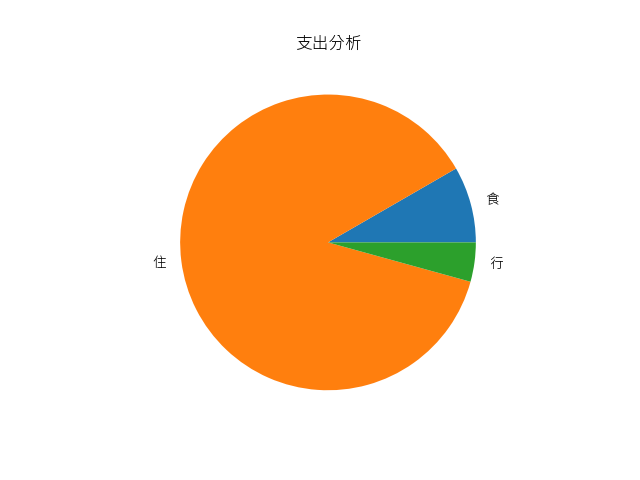
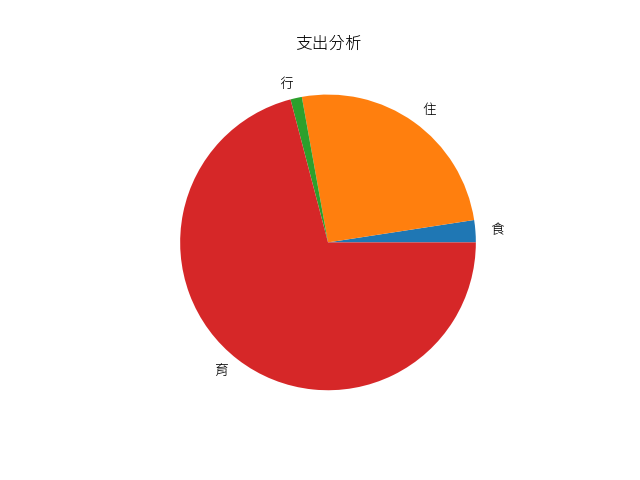
add advice_text

diff --git a/function.py b/function.py
@@ -99,9 +99,8 @@ class search_records_embed():
     def get_embed(self):
         user_id=self.parent_view.user_id
         rows=db.search_records(user_id)
-        # 表頭
+        #查詢出的資料
         embed = Embed(title="📒 記帳紀錄")
-
         for r in rows:
             id,user_id,today,item,amount,type,category=r
             embed.add_field(
@@ -302,6 +301,30 @@ class chart_analysis():
     #生成圖表
     def creat_chart(self):
         self.analysis_data()#先抓取整理後的資料
+        discord_id=self.parent_view.user_id
+        #收支建議
+        balance=self.income["收入"]-self.expense["支出"]
+        expense_items=list(self.expense.items())
+        max_data=dict(expense_items[1:])
+        advice_text_ie=""
+        if balance>0:
+            advice_text_ie=f"🎉 太棒了！本月目前結餘 **{balance}** 元。\n繼續保持，可以考慮將多餘資金存入儲蓄！"
+        elif balance==0:
+            advice_text_ie="⚖ 收支平衡！\n雖然沒有超支，但也沒存到錢，下個月加油！"
+        else:
+            advice_text_ie=f"⚠ 注意！本月已經超支 **{abs(balance)}** 元了！\n建議檢視「{max(max_data,key=max_data.get)}」類別的花費，減少不必要的支出。"
+        
+        #目標預算建議
+        target=db.search_target(discord_id)
+        advice_text_target=""
+        if target>self.expense["支出"]:
+            advice_text_target=f"🎉 恭喜！近期花費成功控制在 **{target}** 元以內。請繼續保持，注意還有多少於預算可用！"
+        elif target==self.expense["支出"]:
+            advice_text_target=f"🚫 已達預算上限，請賺多一點錢或節省開銷！"
+        else:
+            advice_text_target=f"⚠ 花費已超出預算，請注意「{max(max_data,key=max_data.get)}」這方面的支出！"
+        embed_advice=discord.Embed(title="財務分析建議",description=f"收支建議\n{advice_text_ie}\n\n\n目標預算建議\n{advice_text_target}",color=discord.Color.gold())
+
         try:
             self.filter_income=dict([(k,v) for k,v in zip(self.income.keys(),self.income.values()) if v>0])
             plt.title("收入分析")
@@ -320,12 +343,16 @@ class chart_analysis():
             plt.savefig("expense.png")
             file_expense=discord.File("expense.png")
             embed_expense=discord.Embed(title="支出圖表")
+            # if self.expense["支出"]>db.search_target(discord_id):
+            #     embed_expense.add_field(name="財務建議：目前已超出預算")
+            # else:
+            #     embed_expense.add_field(name="財務建議：目前沒超出預算")
             embed_expense.set_image(url="attachment://expense.png")
             plt.close()
         except:
             print(2)
 
-        return file_income,embed_income,file_expense,embed_expense
+        return file_income,embed_income,file_expense,embed_expense,embed_advice
 
 #/////////////////////////////////////////////////////////////////////////
 #目標預算

diff --git a/main.py b/main.py
@@ -92,9 +92,9 @@ class menu(discord.ui.View):
 
     @discord.ui.button(label="圖表分析", emoji="📊", custom_id="chart_analysis", style=discord.ButtonStyle.grey, row=1)
     async def analyze(self, button, interaction):
-        file_income,embed_income,file_expense,embed_expense,=chart_analysis(parent_view=self).creat_chart()
+        file_income,embed_income,file_expense,embed_expense,embed_advice=chart_analysis(parent_view=self).creat_chart()
         await interaction.response.defer()
-        await interaction.edit_original_message(content="圖表分析",files=[file_income,file_expense],embeds=[embed_income,embed_expense],view=BackView(self))
+        await interaction.edit_original_message(content="圖表分析",files=[file_income,file_expense],embeds=[embed_advice,embed_income,embed_expense],view=BackView(self))
 
     @discord.ui.button(label="目標預算", emoji="🎯", custom_id="action_target", style=discord.ButtonStyle.blurple, row=1)
     async def password(self, button, interaction):

diff --git a/database.py b/database.py
@@ -130,13 +130,21 @@ class recordDB:#資料庫的類別
         conn.close()
 
     #新增目標預算
-    def add_target(self,target):
+    def add_target(self,target,discord_id):
         conn=self.connect()
         cursor=conn.cursor()
-        cursor.execute("UPDATA users SET targer=?"(target))
+        cursor.execute("UPDATE users SET targer=? WHERE=discord_id?",(target,discord_id,))
         conn.commit()
         conn.close()
 
+    #查詢目標預算
+    def search_target(self,discord_id):
+        conn=self.connect()
+        cursor=conn.cursor()
+        cursor.execute("SELECT target FROM users WHERE discord_id=?",(discord_id,))
+        target_data=cursor.fetchone()[0]
+        conn.close()
+        return target_data
 
 
 
